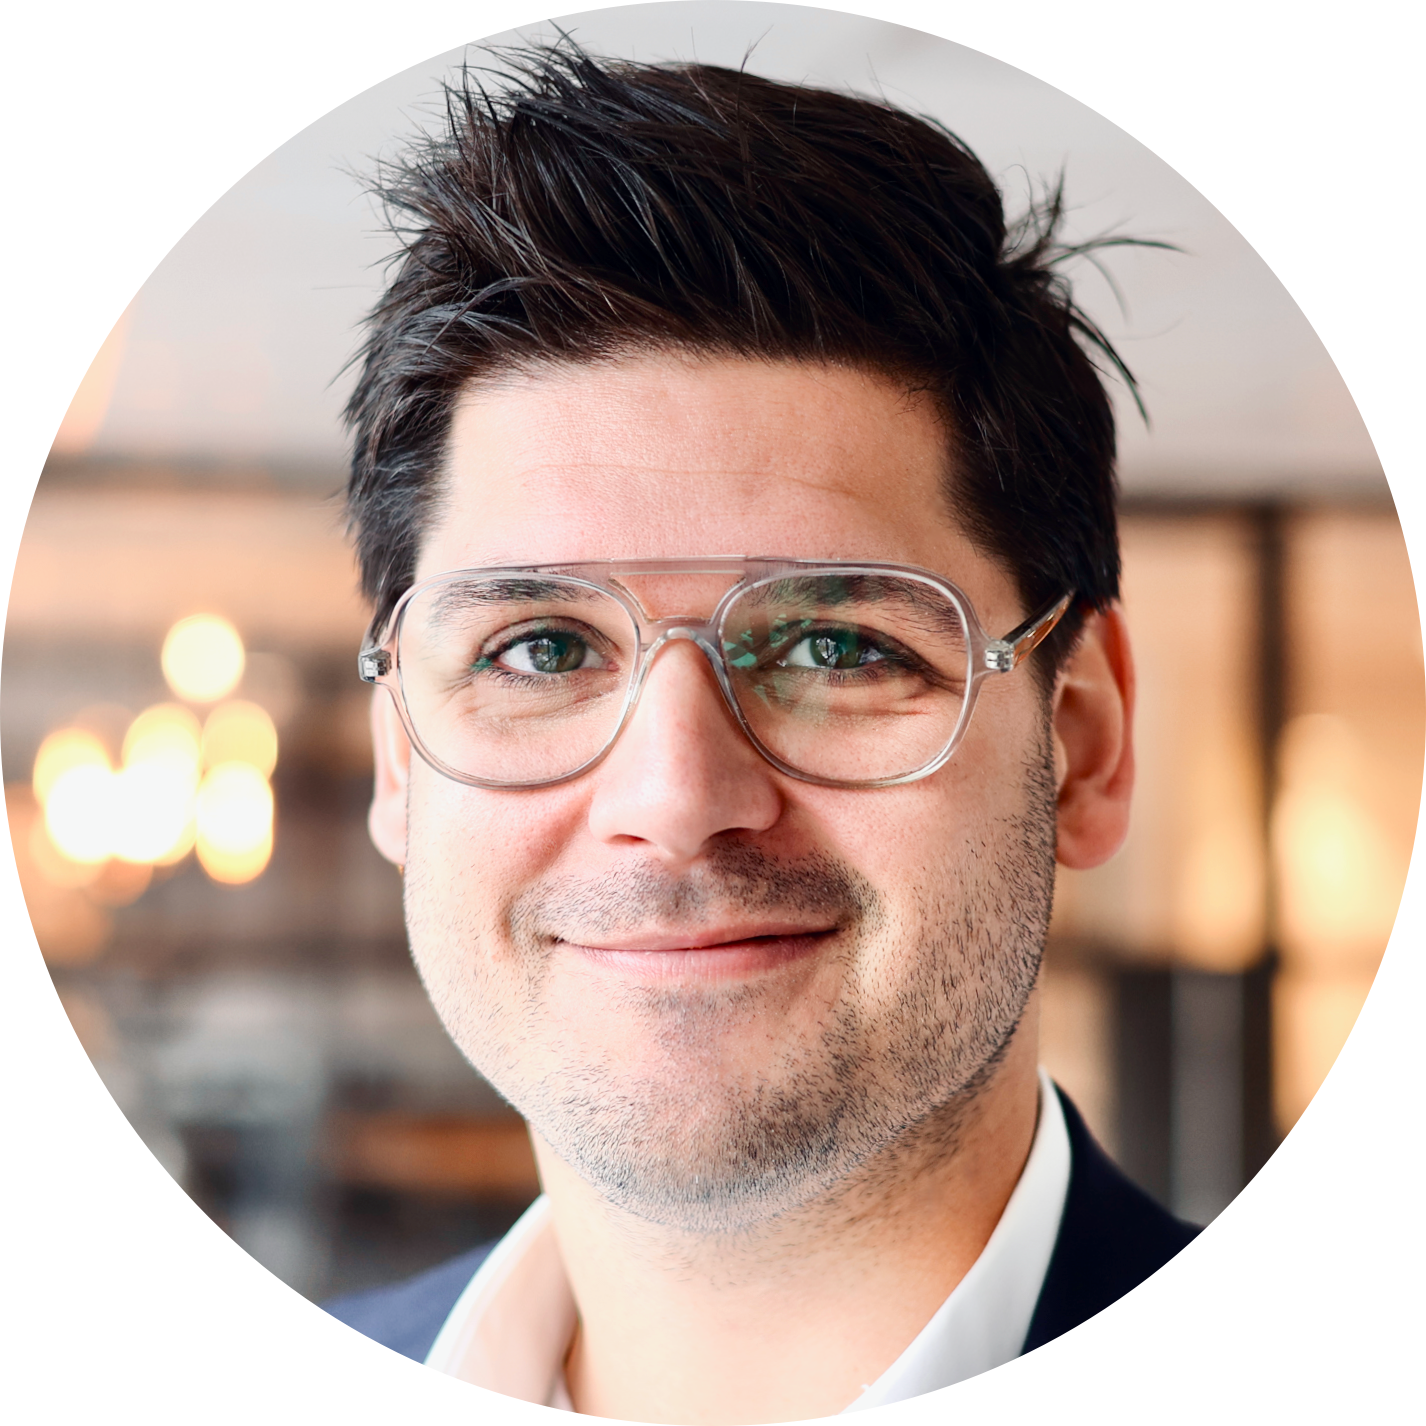
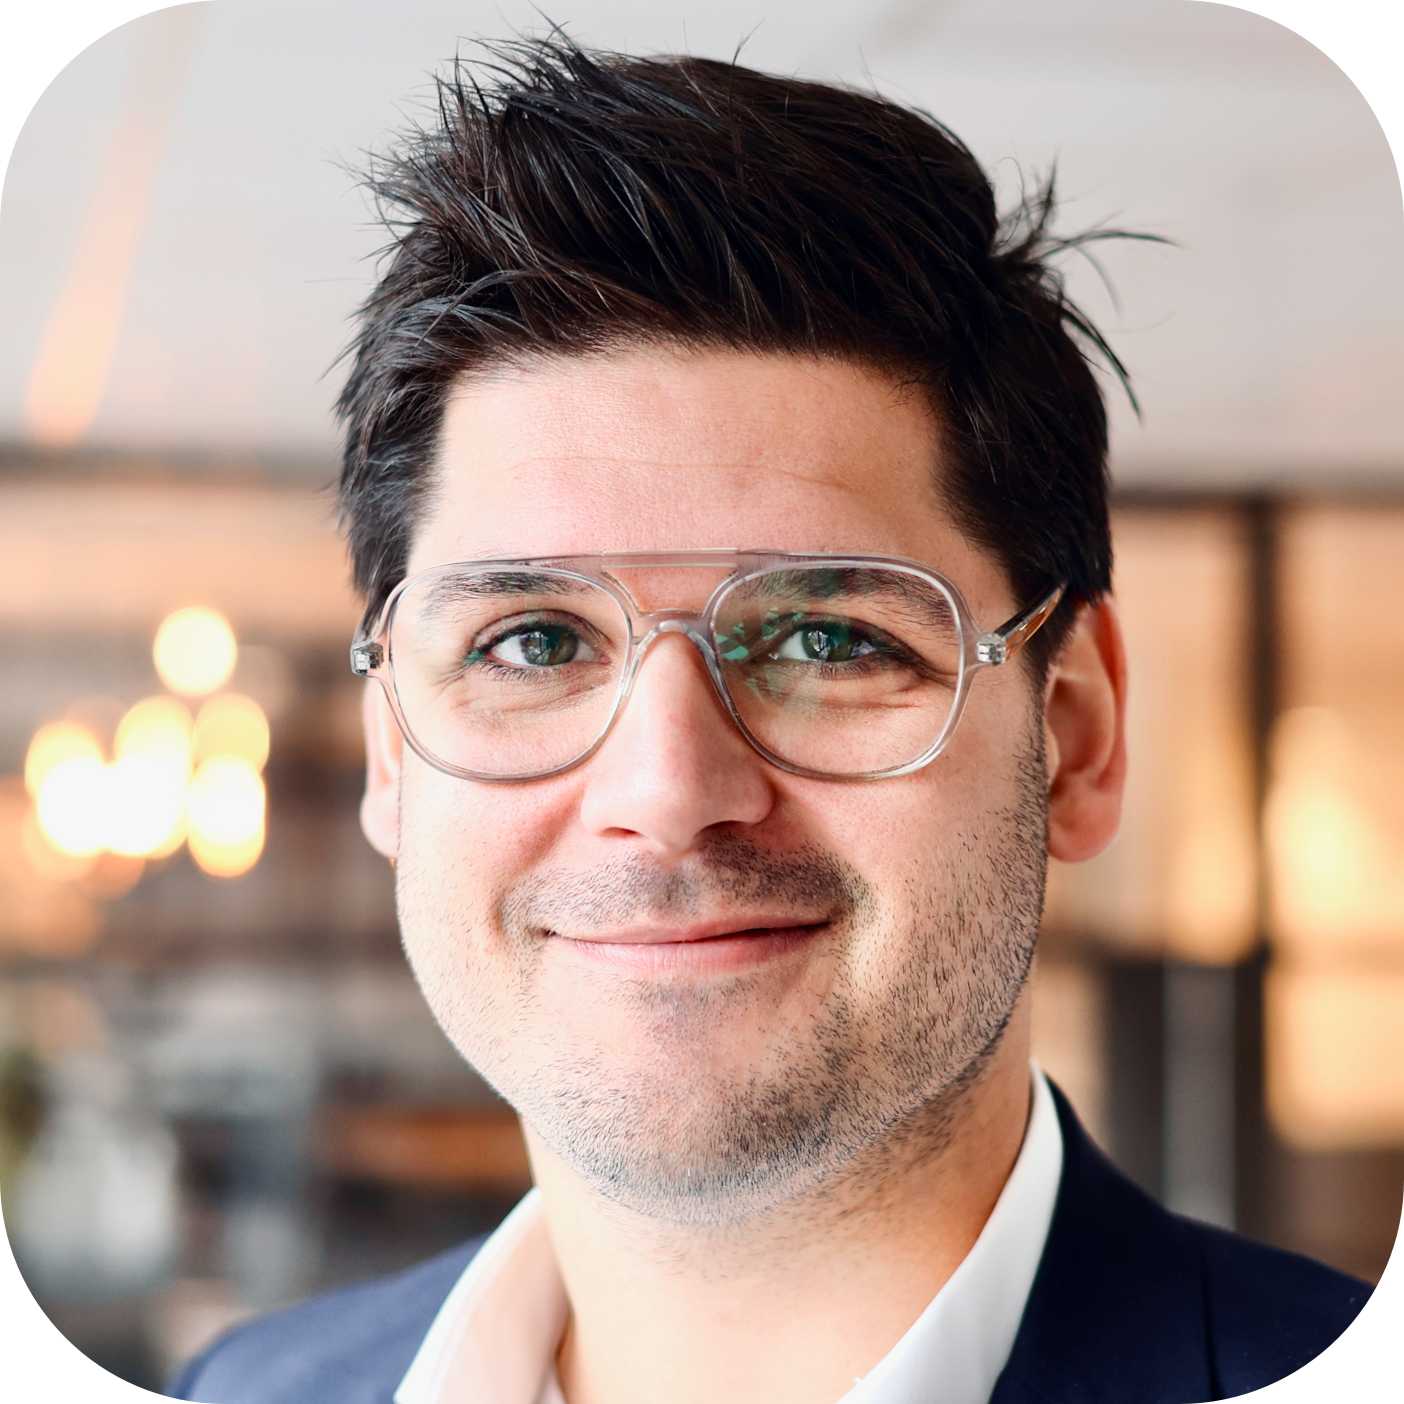
Updated about text + bio photo

diff --git a/_pages/about.md b/_pages/about.md
@@ -7,7 +7,7 @@ title: "About"
 
 🚀 At [Schuberg Philis][sbp]{:target="_blank"}, we believe that the right combination of smart people, in the right setting and with the right intentions, can achieve anything. That’s why we strive for 100% impact in everything we do. With small, independent, dedicated teams, we deliver IT at the heart of business with a central focus on the customer. Complete commitment. No concessions, no restrictions. 100%.
 
-🙇🏻♂ I'm an IT executive whose skills and experience encompass the end-to-end development of new products and services in mission-critical environments. I have a strong reputation for getting things done, with a keen eye for detail, and without losing the personal touch with colleagues and stakeholders. I'm a passionate quartermaster who loves to simplify complex challenges and to drive change at the intersection of technology, business, and people. I hold [a PhD in Information Science][phdthesis]{:target="_blank"} from Utrecht University (2011). Feel free to reach out! You can download my resume [here][cv]{:target="_blank"}.
+🙇🏻♂ I'm an IT executive whose skills and experience encompass the end-to-end development of new products and services in mission-critical environments. I have a strong reputation for getting things done, with a keen eye for detail, and without losing the personal touch with colleagues and stakeholders. I'm a passionate quartermaster who loves to simplify complex challenges and to drive change at the intersection of technology, business, and people. I hold [a PhD in Information Science][phdthesis]{:target="_blank"} from Utrecht University (2011). You can download my resume [here][cv]{:target="_blank"}. Feel free to reach out!
 
 Areas of expertise: Mission-critical IT, Product Management, Software Production, BizDevOps, Innovation
 
